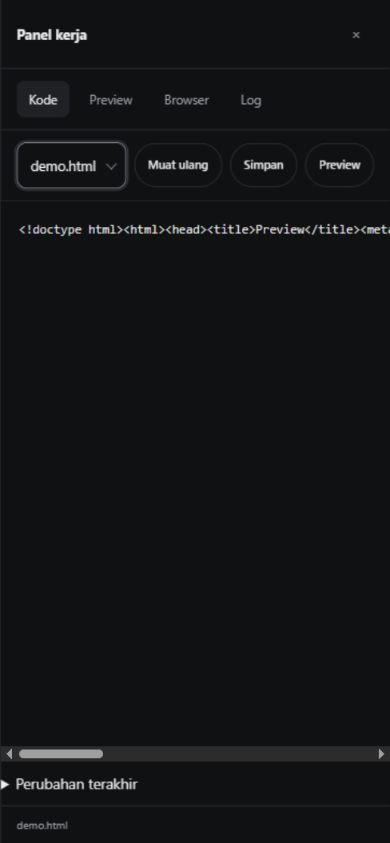
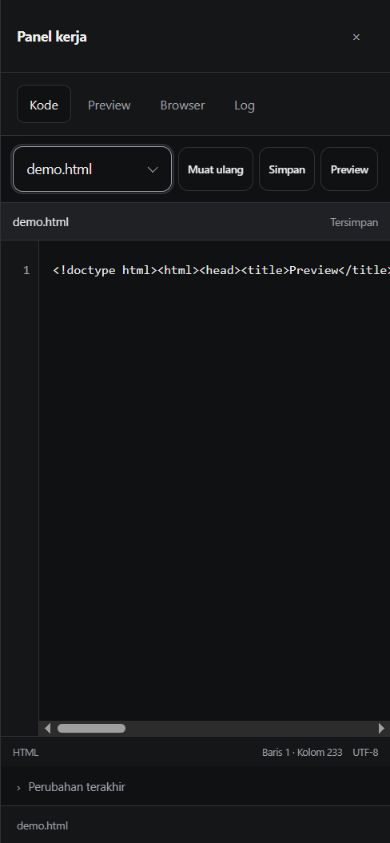
Align workbench with Agen Mini design and fix tool execution integrity

diff --git a/frontend/workbench.css b/frontend/workbench.css
@@ -11,8 +11,17 @@
 #wbLog{list-style:none;padding:16px;margin:0;overflow:auto;flex:1;font-size:12px;color:var(--muted)}#wbLog li{border-bottom:1px solid var(--line);padding:10px 0;overflow-wrap:anywhere}
 #wbBrowse{display:flex;gap:8px;flex-wrap:wrap;padding:14px}#wbBrowse input{flex:1;min-width:100px}.wb-browser-note{padding:0 14px;font-size:12px;color:var(--muted)}
 .brand-mascot{width:30px;height:36px;object-fit:contain;flex:none}.logo .brand-mascot{width:80px;height:90px}.agent-working .brand-mascot{animation:mascot-work 1.6s ease-in-out infinite;transform-origin:50% 85%}
+.login-card .logo{width:80px;height:90px;background:none}.status .brand-mascot{width:22px;height:26px}.status .spin{flex:none}.activity-label{min-width:0;overflow-wrap:anywhere}
+#workbench summary{padding:10px 16px;cursor:pointer;font-size:12px;color:var(--muted);list-style:none}#workbench summary::-webkit-details-marker{display:none}#workbench summary::before{content:'›';display:inline-block;margin-right:8px}#workbench details[open] summary::before{transform:rotate(90deg)}
 @keyframes mascot-work{0%,100%{transform:translateY(0) rotate(-3deg)}50%{transform:translateY(-4px) rotate(3deg)}}
 .chat-model-bar{border:0;gap:8px;padding:8px 20px;flex-wrap:wrap}.chat-model-bar>label{display:none}.chat-model-bar .inp,.chat-model-bar .design-select{max-width:230px}.chat-model-bar #chatAccess{margin-left:auto;white-space:nowrap}
 @media(max-width:1200px){#app.workbench-open{grid-template-columns:200px minmax(300px,1fr)}#workbench{position:fixed;right:0;top:0;width:min(520px,calc(100vw - 24px));z-index:70;box-shadow:-16px 0 40px #0003}}
 @media(max-width:760px){#app.workbench-open{grid-template-columns:minmax(0,1fr)}#workbench{width:100%;height:100dvh}.chat-model-bar{padding:6px 12px;gap:6px}.chat-model-bar .design-select{flex:1;min-width:110px}.chat-model-bar #chatAccess{margin-left:0}.chat-head{gap:6px}.chat-head .btn{padding:7px 10px}}
 @media(prefers-reduced-motion:reduce){.agent-working .brand-mascot{animation:none}.agent-working .brand-mascot{opacity:.65}}
+
+/* Shared Agen Mini surfaces: compact editor chrome, no bundled IDE runtime. */
+.wb-head{background:var(--side);padding:14px 16px}.wb-tabs{background:var(--side);gap:4px;overflow-x:auto;flex-shrink:0}.wb-tabs button{white-space:nowrap;border:1px solid transparent}.wb-tabs button[aria-selected=true]{background:var(--bg);border-color:var(--line)}
+.wb-actions{background:var(--bg);padding:10px 12px;gap:6px}.wb-actions .btn{border-radius:10px}.wb-file-bar{display:flex;gap:12px;align-items:center;padding:10px 16px;border-bottom:1px solid var(--line);background:var(--soft);font-size:12px;min-width:0}.wb-file-bar #wbFileName{overflow:hidden;text-overflow:ellipsis;white-space:nowrap;flex:1}.wb-file-bar #wbFileState{font-size:11px;color:var(--muted);white-space:nowrap}.wb-file-bar #wbFileState.is-dirty{color:var(--text)}
+.wb-editor-wrap{display:flex;flex:1;min-height:180px;overflow:hidden;background:var(--bg)}#wbLines{flex:none;width:48px;box-sizing:border-box;text-align:right;padding:18px 10px;margin:0;overflow:hidden;white-space:pre;user-select:none;color:var(--muted);background:var(--side);border-right:1px solid var(--line);font:13px/1.7 ui-monospace,Consolas,monospace}#wbEditor{min-width:0;width:0;outline-offset:-2px;padding-left:14px}
+.wb-editor-status{display:flex;gap:16px;padding:7px 12px;background:var(--side);border-top:1px solid var(--line);color:var(--muted);font-size:10px}.wb-editor-status #wbPosition{margin-left:auto}#wbInfo{background:var(--side)}#wbBrowse{background:var(--side);border-bottom:1px solid var(--line)}#wbLog li{padding:12px 0}#wbDiff{background:var(--soft);max-height:200px}
+@media(max-width:760px){.wb-actions .btn{padding:7px 9px;font-size:11px}#wbLines{width:38px;padding-right:8px}.wb-editor-status{gap:10px}.wb-file-bar{padding:9px 12px}}

diff --git a/frontend/workbench.js b/frontend/workbench.js
@@ -4,10 +4,24 @@ window.Workbench=(()=>{
  const accessButton=document.createElement('button');accessButton.id='chatAccess';accessButton.type='button';accessButton.className='btn sm';accessButton.textContent='Dengan izin';document.querySelector('.chat-model-bar').append(accessButton);
  let opened=false,file=null,dirty=false,timer=null,cursor=0,chat=null,loading=false,tab='code';const seen=new Set();
  const panel=document.querySelector('#workbench'),editor=document.querySelector('#wbEditor');
+ function syncEditor(){
+  const path=file?.path||'',lines=editor.value.split('\n');
+  document.querySelector('#wbLines').textContent=lines.map((_,i)=>i+1).join('\n');
+  document.querySelector('#wbFileName').textContent=path.split('/').at(-1)||'Ruang kerja';
+  document.querySelector('#wbFileName').title=path;
+  document.querySelector('#wbFileState').textContent=dirty?'Belum disimpan':file?.sha256?'Tersimpan':'Draf';
+  document.querySelector('#wbFileState').classList.toggle('is-dirty',dirty);
+  const ext=path.split('.').at(-1);document.querySelector('#wbLanguage').textContent=({js:'JavaScript',ts:'TypeScript',py:'Python',html:'HTML',css:'CSS',json:'JSON',md:'Markdown'})[ext]||'Teks';
+  position();
+ }
+ function position(){const prefix=editor.value.slice(0,editor.selectionStart).split('\n');document.querySelector('#wbPosition').textContent='Baris '+prefix.length+' · Kolom '+(prefix.at(-1).length+1)}
+ editor.addEventListener('scroll',()=>{document.querySelector('#wbLines').scrollTop=editor.scrollTop});
+ editor.addEventListener('click',position);editor.addEventListener('keyup',position);
+ editor.addEventListener('keydown',e=>{if(e.key==='Tab'){e.preventDefault();editor.setRangeText('  ',editor.selectionStart,editor.selectionEnd,'end');dirty=true;syncEditor()}if((e.ctrlKey||e.metaKey)&&e.key.toLowerCase()==='s'){e.preventDefault();document.querySelector('#wbSave').click()}});
  const overlayMedia=matchMedia('(max-width:1200px)');
  function syncOverlay(){const overlay=opened&&overlayMedia.matches;document.querySelector('#app>main').inert=overlay;document.querySelector('#side').inert=overlay;panel.setAttribute('role',overlay?'dialog':'complementary');if(overlay)panel.setAttribute('aria-modal','true');else panel.removeAttribute('aria-modal')}
  overlayMedia.addEventListener('change',syncOverlay);
- const say=t=>{document.querySelector('#wbInfo').textContent=t};
+ const say=t=>{document.querySelector('#wbInfo').textContent=t;syncEditor()};
  function selectTab(name){tab=name;panel.querySelectorAll('[data-wb-tab]').forEach(b=>b.setAttribute('aria-selected',String(b.dataset.wbTab===name)));panel.querySelectorAll('[data-wb-view]').forEach(v=>v.hidden=v.dataset.wbView!==name)}
  async function refresh(){if(loading)return;loading=true;try{const d=await api('/api/workbench/files'),s=document.querySelector('#wbFiles'),old=s.value;s.replaceChildren(new Option('Pilih berkas…',''));d.files.forEach(p=>s.add(new Option(p,p)));s.value=file?.path||old;window.refreshDesignControls?.();say(d.truncated?'Daftar dibatasi 300 berkas.':'Berkas ruang kerja · perubahan disimpan dengan pemeriksaan konflik.')}catch(e){say(e.message)}finally{loading=false}}
  async function choose(path){if(!path)return;if(dirty&&!(await uiConfirm('Ada perubahan belum disimpan. Buka berkas lain?')))return;try{file=await api('/api/workbench/file?path='+encodeURIComponent(path));editor.value=file.content;dirty=false;document.querySelector('#wbFiles').value=path;say(path);selectTab('code')}catch(e){say(e.message)}}

diff --git a/frontend/index.html b/frontend/index.html
@@ -207,7 +207,7 @@
     <header class="wb-head"><strong>Panel kerja</strong><button class="ib" type="button" id="wbClose" aria-label="Tutup panel">×</button></header>
     <nav class="wb-tabs" aria-label="Tampilan panel"><button type="button" data-wb-tab="code" aria-selected="true">Kode</button><button type="button" data-wb-tab="preview" aria-selected="false">Preview</button><button type="button" data-wb-tab="browser" aria-selected="false">Browser</button><button type="button" data-wb-tab="log" aria-selected="false">Log</button></nav>
     <div class="wb-actions"><select id="wbFiles" class="inp" aria-label="Berkas ruang kerja"><option value="">Pilih berkas…</option></select><button id="wbRefresh" class="btn sm" type="button">Muat ulang</button><button id="wbSave" class="btn sm" type="button">Simpan</button><button id="wbPreview" class="btn sm" type="button">Preview</button></div>
-    <div class="wb-body" data-wb-view="code"><textarea id="wbEditor" aria-label="Editor kode ruang kerja" spellcheck="false" placeholder="Buka berkas atau lihat agen menulis kode di sini."></textarea><details><summary>Perubahan terakhir</summary><pre id="wbDiff"></pre></details></div>
+    <div class="wb-body" data-wb-view="code"><div class="wb-file-bar"><span id="wbFileName">Ruang kerja</span><span id="wbFileState">Tersimpan</span></div><div class="wb-editor-wrap"><pre id="wbLines" aria-hidden="true">1</pre><textarea id="wbEditor" aria-label="Editor kode ruang kerja" spellcheck="false" placeholder="Buka berkas atau lihat agen menulis kode di sini."></textarea></div><div class="wb-editor-status"><span id="wbLanguage">Teks</span><span id="wbPosition">Baris 1 · Kolom 1</span><span>UTF-8</span></div><details><summary>Perubahan terakhir</summary><pre id="wbDiff"></pre></details></div>
     <div class="wb-body" data-wb-view="preview" hidden><iframe id="wbFrame" title="Preview proyek offline" sandbox="allow-scripts allow-downloads" referrerpolicy="no-referrer"></iframe></div>
     <div class="wb-body" data-wb-view="browser" hidden><form id="wbBrowse"><input id="wbAddress" class="inp" type="url" placeholder="https://…" aria-label="Alamat situs" required><button class="btn sm" type="submit">Buka</button><a class="btn sm" id="wbExternal" target="_blank" rel="noopener noreferrer">Buka tab ↗</a></form><p class="wb-browser-note">Tampilan memakai browser Anda. Situs yang melarang embedding harus dibuka di tab; panel ini tidak mengendalikan browser agen.</p><iframe id="wbWeb" title="Situs dalam panel" sandbox="allow-scripts allow-forms" referrerpolicy="no-referrer"></iframe></div>
     <div class="wb-body" data-wb-view="log" hidden><ol id="wbLog" aria-label="Log tindakan harness" aria-live="polite"></ol></div>

diff --git a/app/tools.py b/app/tools.py
@@ -170,7 +170,8 @@ def _workpath(p: str) -> Path:
 def _ctx_workpath(ctx,path):
     folder=getattr(ctx,'project_folder',None)
     if not folder:return _workpath(path)
-    root=_workpath(folder);name=str(path or '.').strip('/')
+    folder=str(folder).replace('\\','/').strip('/')
+    root=_workpath(folder);name=str(path or '.').replace('\\','/').strip('/')
     if name==folder or name.startswith(folder+'/'):target=_workpath(name)
     else:target=_workpath(folder+'/'+name)
     if not target.is_relative_to(root):raise ValueError('Berkas harus tetap di dalam proyek aktif.')
@@ -671,6 +672,7 @@ async def edit_project_file(ctx,folder='',path='',instructions='',**_):
     # Include actual adjacent contracts: SQL columns and imported APIs must not be guessed.
     related={};remaining=1800 if llm.active_backend()=='local' else 12000
     candidates=[target.parent/name for name in ('db.py','models.py','schema.sql','config.py','auth.py','requirements.txt','package.json','pyproject.toml')]
+    if target.suffix in ('.js','.css'):candidates.insert(0,target.parent/'index.html')
     candidates += [target.parent.parent/name for name in ('requirements.txt','package.json','pyproject.toml')]
     for source in candidates:
         source=source.resolve()
@@ -689,7 +691,8 @@ async def edit_project_file(ctx,folder='',path='',instructions='',**_):
                        'Read expected outputs carefully. When repairing, compare the actual result to the expected result and correct the algorithm; preserve assertion expressions. '
                        'Place exact requested input/output assertions at module scope so they execute. '
                        'Tool names in the request refer to the surrounding agent, never functions to implement. Finish the source.')
-    source_messages=[{'role':'system','content':source_prompt},{'role':'user','content':json.dumps({'file':path,'task':instructions,'project':context,'current_source':original},ensure_ascii=False)}]
+    source_prompt+=' Preserve the exact owner requirements in owner_request; a short tool summary must not remove acceptance criteria. Implement only this file.'
+    source_messages=[{'role':'system','content':source_prompt},{'role':'user','content':json.dumps({'file':path,'task':instructions,'owner_request':getattr(ctx,'user_text','')[:4000],'project':context,'current_source':original},ensure_ascii=False)}]
     draft='';last_emit=0
     async def code_token(piece):
         nonlocal draft,last_emit
@@ -714,7 +717,7 @@ async def edit_project_file(ctx,folder='',path='',instructions='',**_):
         async with _project_command_lock:
             check=await _run_sandboxed(['node','--check','--input-type=module'],timeout=15,stdin=content.encode(),cwd=root,project=True)
         if not check.startswith('[kode keluar 0]'):return 'Error: sintaks JavaScript belum valid: '+check
-    await write_file(ctx,str(target.relative_to(config.WORK_DIR.resolve())),content)
+    await write_file(ctx,target.relative_to(config.WORK_DIR.resolve()).as_posix(),content)
     if target.read_text()!=content:return 'Error: verifikasi isi berkas gagal.'
     return 'Berkas diperbarui dan dibaca ulang: '+folder+'/'+path+' ('+str(len(content.encode()))+' byte). Jalankan build/test proyek; pemeriksaan sintaks belum membuktikan runtime.'
 

diff --git a/tests/test_projects.py b/tests/test_projects.py
@@ -131,6 +131,15 @@ async def test_project_paths_stay_in_assigned_folder(monkeypatch,tmp_path):
     for path in ('../../outside.txt','projects/active/../../outside.txt'):
         with pytest.raises(ValueError):tools._ctx_workpath(ctx,path)
 
+@pytest.mark.asyncio
+async def test_windows_project_path_is_not_prefixed_twice(monkeypatch,tmp_path):
+    monkeypatch.setattr(config,'WORK_DIR',tmp_path)
+    ctx=context();ctx.project_folder='projects/active'
+    await tools.write_file(ctx,r'projects\active\result.txt','actual source')
+    assert (tmp_path/'projects/active/result.txt').read_text()=='actual source'
+    assert not (tmp_path/'projects/active/projects').exists()
+    assert await tools.read_file(ctx,r'projects\active\result.txt')=='actual source'
+
 
 def test_template_js_keeps_literal_newline_escapes():
     from app.site_layout import render
@@ -243,6 +252,20 @@ async def test_file_editor_supplies_actual_sql_contract(monkeypatch,tmp_path):
     result=await tools.edit_project_file(ctx,folder=tmp_path.name,path='backend/app/auth.py',instructions='Fix authentication')
     assert 'dibaca ulang' in result
     assert 'password_hash' in seen[0]['project']['related_source']['backend/app/db.py']
+
+@pytest.mark.asyncio
+async def test_javascript_editor_reads_actual_html_control_contract(monkeypatch,tmp_path):
+    (tmp_path/'index.html').write_text('<button id="downloadLink">Download</button>')
+    (tmp_path/'app.js').write_text('const old = 1;')
+    monkeypatch.setattr(config,'WORK_DIR',tmp_path.parent)
+    seen=[]
+    async def chat(messages,**kw):
+        seen.append(json.loads(messages[-1]['content']));return {'content':'const fixed = 2;'}
+    monkeypatch.setattr(llm,'chat',chat)
+    ctx=context('teknisi');ctx.user_text='Download must use the converted blob with MIME image/png, not the original file.'
+    await tools.edit_project_file(ctx,folder=tmp_path.name,path='app.js',instructions='Fix actual button handler')
+    assert '<button id="downloadLink">' in seen[0]['project']['related_source']['index.html']
+    assert 'converted blob with MIME image/png' in seen[0]['owner_request']
 
 @pytest.mark.asyncio
 async def test_python_semantic_syntax_error_cannot_replace_existing_file(monkeypatch,tmp_path):

diff --git a/app/agent.py b/app/agent.py
@@ -645,7 +645,7 @@ class Turn:
                                      max_tokens=(1400 if llm.active_backend()=='local' else 3000) if getattr(self,'project_folder',None) else None)
                 res = await core.model(operation) if core else await operation
                 stats = res.get("stats", {})
-                calls = res["tool_calls"][:3]
+                calls = res.get("tool_calls") or []
                 if not calls and not last:
                     # Parse known but unavailable tools too, then enforce the bot's actual scope.
                     # This gives a useful tool error instead of looping on a valid raw tag.
@@ -700,7 +700,10 @@ class Turn:
                     name, args = c["name"], c["arguments"]
                     if call_index>=8:
                         if core:await core.rejected(name,'batch_limit')
-                        msgs.append({'role':'tool','tool_name':name,'content':'Error: batch limit of eight calls reached. This call was NOT executed. Request it in the next step if still needed.'})
+                        failure='Error: '+name+' was deferred by the eight-call batch limit; NOT executed.'
+                        failures.append(failure)
+                        if isinstance(args,dict):failures_by_scope.setdefault(tool_failure_scope(name,args),set()).add(failure)
+                        msgs.append({'role':'tool','tool_name':name,'content':failure+' Request it in the next step if still needed.'})
                         continue
                     validation = tools.validate_arguments(name, args)
                     if validation:

diff --git a/tests/test_deepseek_core.py b/tests/test_deepseek_core.py
@@ -39,6 +39,23 @@ async def test_failed_tool_and_file_change_are_not_synthetic_success(isolated):
     finally:deepseek_core.current.reset(token)
     assert len([r for r in seen if r['kind']=='file/change'])==1
 
+@pytest.mark.asyncio
+@pytest.mark.parametrize('recover',[False,True])
+async def test_deferred_batch_action_is_partial_until_actually_executed(isolated,monkeypatch,recover):
+    from app import agent,llm
+    db.set_setting('harness_mode','assisted');db.set_setting('full_access','1');db.set_setting('max_steps','2');db.set_setting('self_improve','off')
+    bot=db.bot('orchestrator');bot.update(backend='online',tools=['write_file'])
+    calls=[{'name':'write_file','arguments':{'path':f'part{i}.txt','content':f'actual {i}'}} for i in range(9)]
+    replies=[{'content':'','tool_calls':calls}]
+    if recover:replies.append({'content':'','tool_calls':[calls[-1]]})
+    replies.append({'content':'Hasil tersedia.'})
+    async def model(*args,**kwargs):
+        response=replies.pop(0);response.setdefault('tool_calls',[]);return response
+    monkeypatch.setattr(llm,'chat',model)
+    result=await agent.Turn(bot,'web','batch-limit').run('Jalankan daftar tugas itu.')
+    assert result['meta']['status']==('done' if recover else 'partial')
+    assert (config.WORK_DIR/'part8.txt').exists()==recover
+
 def test_workbench_rejects_traversal_private_binary_and_symlinks(tmp_path,monkeypatch):
     monkeypatch.setattr(config,'WORK_DIR',tmp_path)
     for name in ('../app.py','.env','credentials.json','folder/token.txt','photo.png'):

diff --git a/docs/LOCAL-APPS-EVAL.md b/docs/LOCAL-APPS-EVAL.md
@@ -13,6 +13,8 @@ Prompt memuat penanda acak agar hasil dan percakapan dapat dicocokkan.
 | Qwen3.5 0.8B, konteks diperkecil | Artefak lolos sintaks/ZIP; gagal perilaku browser | Uji terpisah, tidak dianggap lulus berdasarkan converter |
 | LFM2.5 1.2B Instruct QAD Q4_0 | Gagal kontrak antarberkas | Artefak lolos sintaks/ZIP; gagal perilaku browser |
 | LFM2.5 1.2B, guard HTML/kontrol | Gagal, tidak ada ZIP hasil | Gagal, tidak ada ZIP hasil |
+| Qwen3.5 0.8B, guard final (`2d2a07d7`) | Gagal: README terpotong; tidak ada ZIP hasil | Gagal: kontrol yang diminta belum lengkap |
+| LFM2.5 1.2B, pemulihan fence (`b03d9b71`) | Artefak lolos struktur; gagal unggah PNG valid di browser | Gagal: kontrol yang diminta belum lengkap |
 
 Browser nyata mengunggah PNG valid 32×16 ke converter Qwen (`a2ed35ac`).
 Aplikasi menampilkan “File tidak valid” dan menonaktifkan tombol konversi.
@@ -23,6 +25,12 @@ Browser nyata mengunggah teks “apel apel jeruk café 日本語” ke editor LF
 (`cc96a2e3`) lalu menekan Save. Console mengembalikan
 `TypeError: file.readAsText is not a function`. Replace-all, kontrol pencarian
 dan hitungan kata yang diminta belum lengkap. Ini **gagal**.
+
+Uji converter LFM setelah pemulihan fence mengunggah PNG valid 32×16 lalu
+menekan Convert. Aplikasi menampilkan “File must be a JPEG, PNG or WebP”
+karena membandingkan ekstensi terhadap MIME. Ini gagal. Uji perbaikan memakai
+agent.Turn juga menemukan jalur Windows diprefiks dua kali; bug aplikasi
+tersebut diperbaiki dan diberi tes regresi, bukan dianggap kesalahan model.
 
 Temuan tersebut menghasilkan guard per berkas, pemeriksaan kontrol yang
 diminta, penolakan HTML yang bercampur modul lain, pemulihan wrapper fence
@@ -51,3 +59,10 @@ Laporan, draft dan kode tetap dalam direktori temp yang dicetak evaluator.
 Uji browser independen tetap diperlukan. Model 0.8B/1.2B belum terbukti andal
 untuk kedua tugas ini; jangan menyamakan harness dengan training bobot atau
 kemampuan model besar.
+
+Perbaikan melalui agen nyata menemukan jalur Windows yang menggandakan folder
+proyek; normalisasi jalur diperbaiki dan diuji regresi. Percobaan berikutnya
+berhasil menulis berkas yang tepat, tetapi LFM tetap menghasilkan logika
+converter yang keliru dan respons JSON akhir invalid. Status tugas gagal,
+bukan bukti aplikasi bekerja. Permintaan asli pemilik kini disertakan dalam
+editor alat agar ringkasan model tidak menghilangkan kriteria fungsi.

diff --git a/VALIDATION.md b/VALIDATION.md
@@ -2,7 +2,7 @@
 
 ## Inti DeepSeek dan panel kerja — 7 Oktober 2026
 
-70 tes terkait agent, proyek, jalur model lokal, editor, journal dan sintaks frontend lulus di Windows lokal. Kasus mencakup tindakan mutasi terputus dengan outcome unknown tanpa replay, argumen privat tidak masuk log, penolakan jalur traversal/berkas privat, dan simpan editor yang konflik dengan perubahan agen. Pemeriksaan packaging memastikan placeholder URL gateway benar-benar diganti pada pemasang yang dibangun. CI Linux memeriksa seluruh suite serta fixture pemasang/supervisor; release gate memerlukan sukses pada commit rilis yang sama.
+74 tes terkait agent, proyek, jalur model lokal, editor, journal dan sintaks frontend lulus di Windows lokal. Kasus tambahan memastikan batch alat yang ditunda tetap parsial sampai benar-benar dijalankan, jalur Windows tidak menggandakan folder proyek, dan editor JS membaca kontrak HTML aktual. Kasus mencakup tindakan mutasi terputus dengan outcome unknown tanpa replay, argumen privat tidak masuk log, penolakan jalur traversal/berkas privat, dan simpan editor yang konflik dengan perubahan agen. Pemeriksaan packaging memastikan placeholder URL gateway benar-benar diganti pada pemasang yang dibangun. CI Linux memeriksa seluruh suite serta fixture pemasang/supervisor; release gate memerlukan sukses pada commit rilis yang sama.
 
 Browser nyata pada preview dengan data terpisah memeriksa simpan berkas dan tombol JavaScript di iframe preview. Pada desktop 1440×900 dan mobile 390×844, document scrollWidth sama dengan lebar viewport. Screenshot panel tersedia pada docs/screenshots/workbench-desktop-v010.jpg dan workbench-mobile-v010.jpg; berkas demo ditulis untuk pengujian editor, bukan bukti model menghasilkan aplikasi. Panel memakai textarea dan iframe native; tidak ada Monaco atau layanan render di VPS. RAM VPS belum diukur.
 

diff --git a/RELEASE-NOTES.md b/RELEASE-NOTES.md
@@ -2,6 +2,8 @@
 
 Harness bawaan mengadaptasi inti kontrol DeepSeek ke Python: tindakan alat berurutan, identitas call/result, journal privat, deadline dan penanganan tindakan terputus tanpa replay otomatis. Mode Kosong tetap terpisah; runtime DeepSeek asli tetap pilihan eksternal yang dipasang saat dipilih. Atribusi MIT dan commit sumber disertakan dalam paket.
 
+Panggilan alat tidak lagi terpotong diam-diam pada tiga panggilan pertama. Batch dibatasi delapan secara eksplisit; tindakan yang ditunda tercatat parsial sampai benar-benar dijalankan. Jalur edit proyek Windows dinormalisasi agar folder tidak terduplikasi; editor JS membaca HTML aktual.
+
 Chat mendapat Panel kerja dengan editor ringan, perubahan sebelum/sesudah, draf kode langsung, preview offline terisolasi, Browser dan log. Editor menolak konflik dengan perubahan agen dan membuat salinan sebelum menyimpan. Preview memakai browser pengguna; panel Browser bukan mesin otomatisasi agen. Import module, backend dan situs yang menolak iframe memerlukan server/tab tersendiri. Model dan akses alat dapat dipilih pada chat.
 
 Maskot dari aset pengguna dibersihkan menjadi PNG transparan dan dianimasikan melalui CSS saat bekerja. Panel diperiksa pada desktop dan mobile 390 px, dengan kontrol custom, fokus modal dan dukungan reduced motion. Tidak menambah Monaco, Node service atau server animasi.
